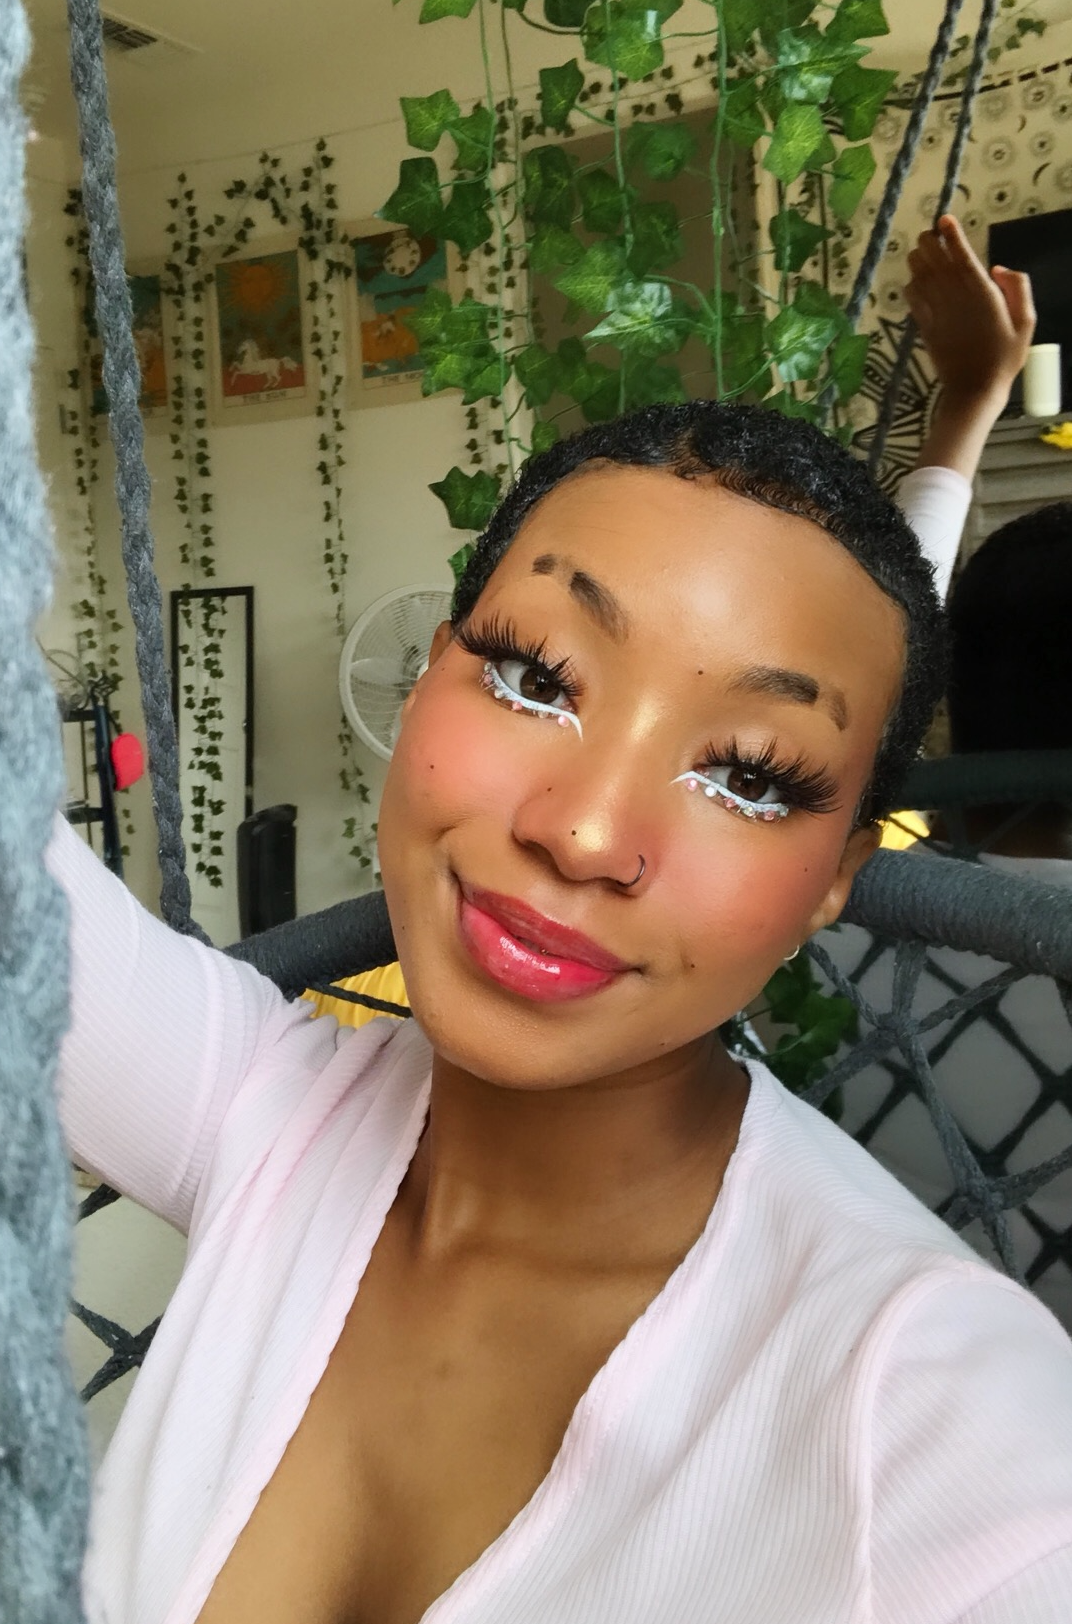
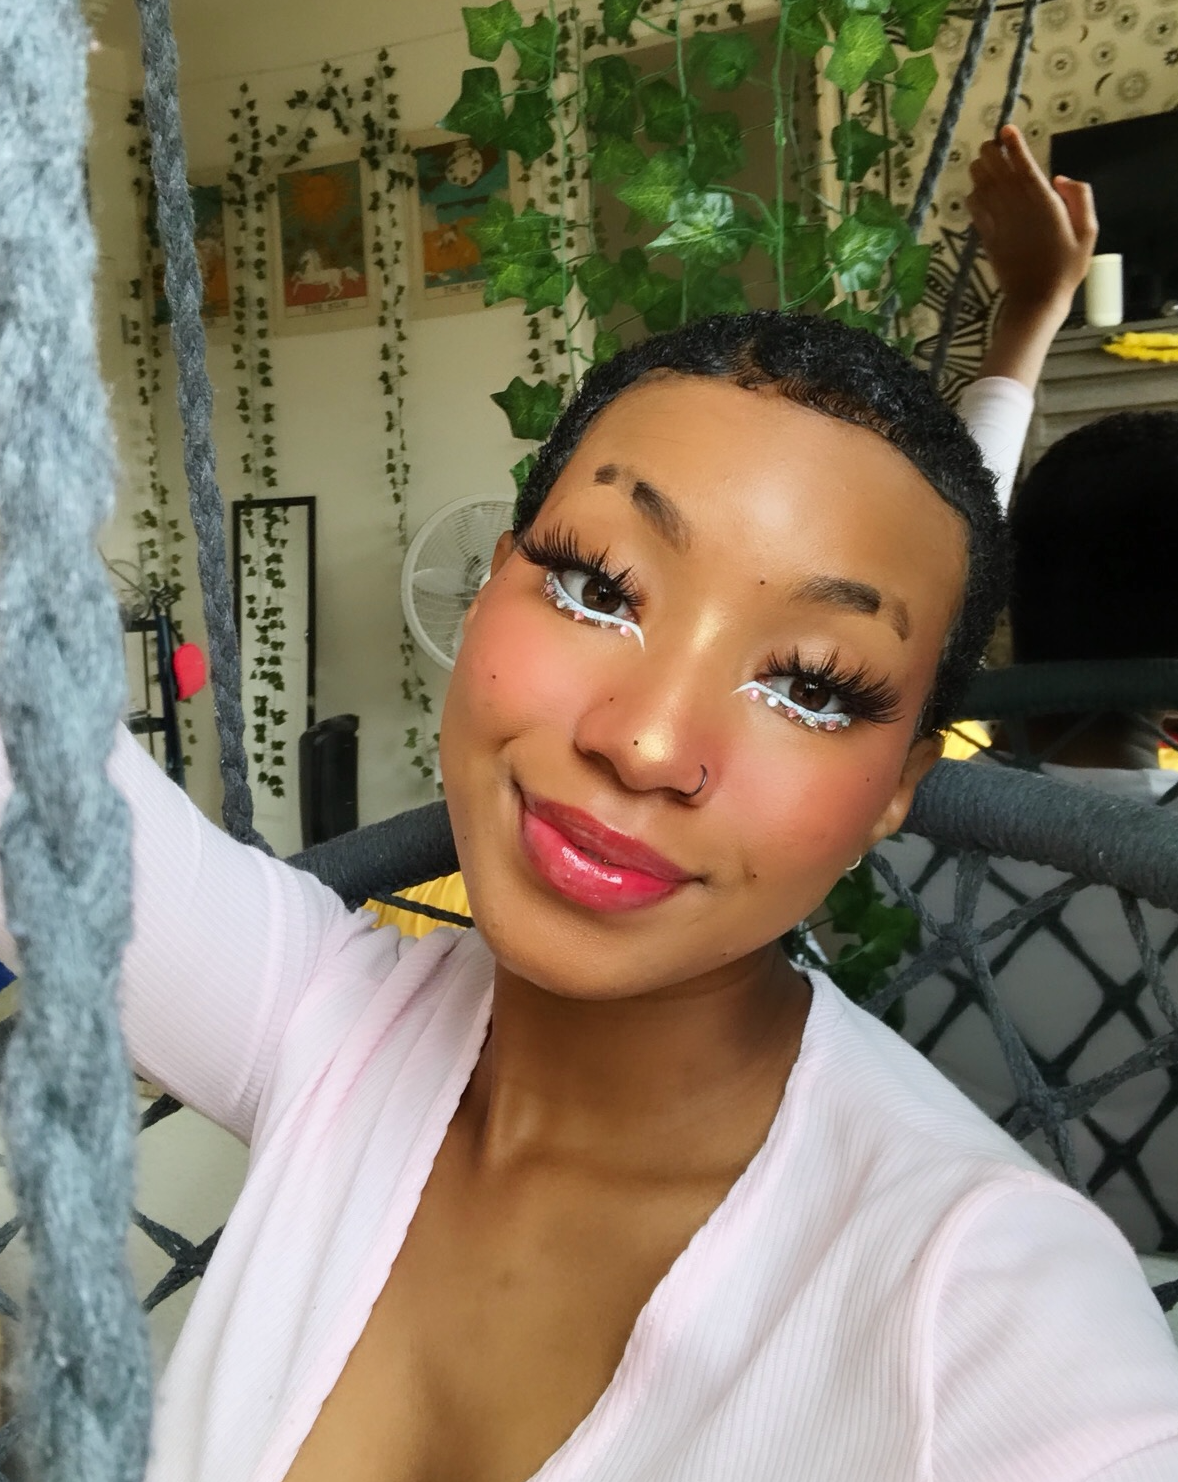
changed pictures and styling

diff --git a/index.html b/index.html
@@ -31,6 +31,8 @@
     <title>Camryn Lee's Portfolio</title>
   </head>
   <body>
+
+    <div class="hero">
     <nav
       class="navbar navbar-expand-lg navbar-light"
       style="background-color: #ede3e7"
@@ -69,30 +71,35 @@
       </div>
     </nav>
 
-    <div class="hero">
-      <div class="row align-items-center" id="hero-images">
-        <div class="col-lg-4">
+    
+      <div class="row align-items-center">
+        <div class="col-md-3">
           <img
-            src="/images/selfie.png"
+            src="/images/selfiemain.png"
             alt=""
-            class="img-fluid rounded-circle p-4"
+            class="img-fluid rounded-circle"
+            id="selfie-main-edit"
           />
         </div>
-        <div class="col-lg-8">
-          <h3>Hello ♡ I am</h3>
+        <div class="col-md-9">
+          <h2>
+            <strong> Hello ♡ I am </strong>
+          </h2>
           <h1>Camryn Lee</h1>
           <p class="mb-5">
-            Budding front-end developer based in Northern California
+            <strong>
+              Budding front-end developer based in Northern California
+            </strong>
           </p>
           <a href="/index.html#projects" class="btn btn-branding">
-            Check out my work :)
+            CHECK OUT MY WORK :)
           </a>
         </div>
       </div>
     </div>
 
     <div class="container" id="projects">
-      <h2 class="text-center m-5">♡ ♡ ♡ ♡ ♡</h2>
+      <h2 class="text-center m-5" id="heart-accent">♡ ♡ ♡ ♡ ♡ ♡ ♡</h2>
       <hr />
       <div class="row align-items-center mb-5">
         <div class="col-6">
@@ -112,7 +119,7 @@
               <i class="fab fa-js-square"></i>
             </p>
             <a href="" class="btn btn-branding-outline" target="_blank">
-              Learn more
+                LEARN MORE
             </a>
           </div>
         </div>
@@ -123,7 +130,8 @@
           <div class="project-description">
             <h2 class="mb-5" id="project-head">Weather App</h2>
             <p class="mb-5">
-             Building this weather app was a really fun experience and allowed me the first chance to showcase my javascript skills.
+              Building this weather app was a really fun experience and allowed
+              me the first chance to showcase my javascript skills.
             </p>
             <p class="timestamp">
               Created in 2021 using
@@ -168,7 +176,7 @@
               </button>
             </p>
             <a href="" class="btn btn-branding-outline" target="_blank">
-              Learn more
+              LEARN MORE
             </a>
           </div>
         </div>
@@ -179,21 +187,16 @@
       <hr />
 
       <footer>
+        <h2 class="text-center" id="heart-accent">♡ ♡ ♡ ♡ ♡ ♡ ♡</h2>
         <div class="text-center" id="icon-section">
           <a href="https://github.com/camrynalexx" target="_blank">
-            <i class="fab fa-github-alt fa-3x pb-2" id="social-icons">
-              <hr />
-              <div class="icon-text">GITHUB</div>
-            </i>
+            <i class="fab fa-github-alt" id="social-icons"> </i>
           </a>
           <a
             href="https://www.linkedin.com/in/camryn-lee-93a25021b/"
             target="_blank"
           >
-            <i class="fab fa-linkedin fa-3x pb-2" id="social-icons">
-              <hr />
-              <div class="icon-text">LINKEDIN</div>
-            </i>
+            <i class="fab fa-linkedin" id="social-icons"> </i>
           </a>
         </div>
       </footer>

diff --git a/src/style.css b/src/style.css
@@ -1,7 +1,7 @@
 :root {
-  --heading-font:  "Anton", "sans-serif";
-  --default-font:  "quicksand";
-  --default-color: #B9B9D1;
+  --heading-font: "Anton", "sans-serif";
+  --default-font: "quicksand";
+  --default-color: #b9b9d1;
   --accent-color: #f89ac0;
 }
 
@@ -19,21 +19,41 @@ body {
   color: var(--accent-color);
 }
 
-
 .navbar-brand {
   color: var(--default-color) !important;
 }
 
-h1 {
-  font-family: var(--heading-font);
-  font-size: 64px;
-  color: var(--accent-color);
+#about-nav {
+  opacity: 80%;
+}
+
+.about-hero .navbar.navbar-expand-lg.navbar-light li a {
+  color: #85B88A;
+}
+
+.about-hero .navbar-brand {
+  color: #D40206 !important;
 }
 
 .hero {
   background: #ede3e7;
   color: #ffff;
   margin: 0;
+}
+
+.about-hero {
+  background-image: url(/images/background.png);
+}
+
+h1 {
+  font-family: var(--heading-font);
+  font-size: 64px;
+  color: var(--accent-color);
+  margin-left: 15px;
+}
+
+.hero p {
+  margin-left: 15px;
 }
 
 .btn-branding {
@@ -52,9 +72,20 @@ h1 {
   cursor: pointer;
 }
 
+#heart-accent {
+  color: #f89ac0;
+  opacity: 50%;
+}
+
 #project-head {
   font-family: var(--heading-font);
   font-size: 50px;
+}
+
+#selfie-main-edit {
+  margin: 15px 0 20px 30px;
+  border: 15px double #f3f4f5;
+  width: 345px;
 }
 
 .project-description p {
@@ -91,11 +122,6 @@ h1 {
   margin-left: 10px;
 }
 
-.fab {
-  color: var(--accent-color);
-  display: inline-block;
-}
-
 .api-icon {
   background: white;
   border: white;
@@ -105,14 +131,11 @@ h1 {
   opacity: 30%;
 }
 
-.icon-text {
-  font-size: 20px;
-}
-
 .aboutMeHeading {
   text-align: center;
   font-family: var(--heading-font);
-  color: var(--accent-color);
+  color: #ffff;
+  padding: 15px;
 }
 
 i {
@@ -123,20 +146,28 @@ i {
   color: var(--accent-color);
 }
 
-
-i:hover {
-  color: #ede3e7;
-}
-
 #icon-section a {
   text-decoration: none;
 }
 
 #social-icons {
-  margin: 15px;
+  display: inline-block;
+  color: #ffff;
+  font-size: 25px;
+  margin: 10px;
+  padding: 15px;
+  background: var(--accent-color);
+  opacity: 40%;
+  border: 1px solid var(--accent-color);
+  border-radius: 50%;
+  transition: all 100ms ease-in-out;
 }
 
-
+#social-icons:hover {
+  color: #b9b9d1;
+  background: #ede3e7;
+  border: #ede3e7;
+}
 
 #hero-about img {
   width: 350px;
@@ -144,6 +175,11 @@ i:hover {
 
 #selfie-one {
   float: right;
+  border: 15px dotted #ffff;
+}
+
+#selfie-two {
+  border: 15px dotted #ffff;
 }
 
 .fa-arrow-down {
@@ -151,6 +187,6 @@ i:hover {
 }
 
 .fa-arrow-down:hover {
-  color: #f2c4d8;
+  color: #D40206;
   cursor: pointer;
 }

diff --git a/about.html b/about.html
@@ -31,9 +31,12 @@
     <title>Document</title>
   </head>
   <body>
+
+    <div class="about-hero">
     <nav
       class="navbar navbar-expand-lg navbar-light"
-      style="background-color: #ede3e7"
+      style="background-color: #ffff"
+      id="about-nav"
     >
       <div class="container-fluid">
         <a class="navbar-brand" href="/">Camryn Lee</a>
@@ -69,7 +72,7 @@
       </div>
     </nav>
 
-    <div class="hero">
+    
       <div class="row" id="hero-about">
         <div class="col mt-3">
           <img
@@ -85,11 +88,15 @@
             src="/images/selfieabout2.png"
             alt=""
             class="img-fluid shadow rounded mb-3"
+            id="selfie-two"
           />
         </div>
       </div>
-
+      
+      <div class="container">
       <h2 class="aboutMeHeading mb-3">Learn a little about me</h2>
+      </div>
+
       <div class="d-flex justify-content-center">
         <a href="/about.html#about-content">
           <i class="fas fa-arrow-down fa-4x mb-2"></i>
